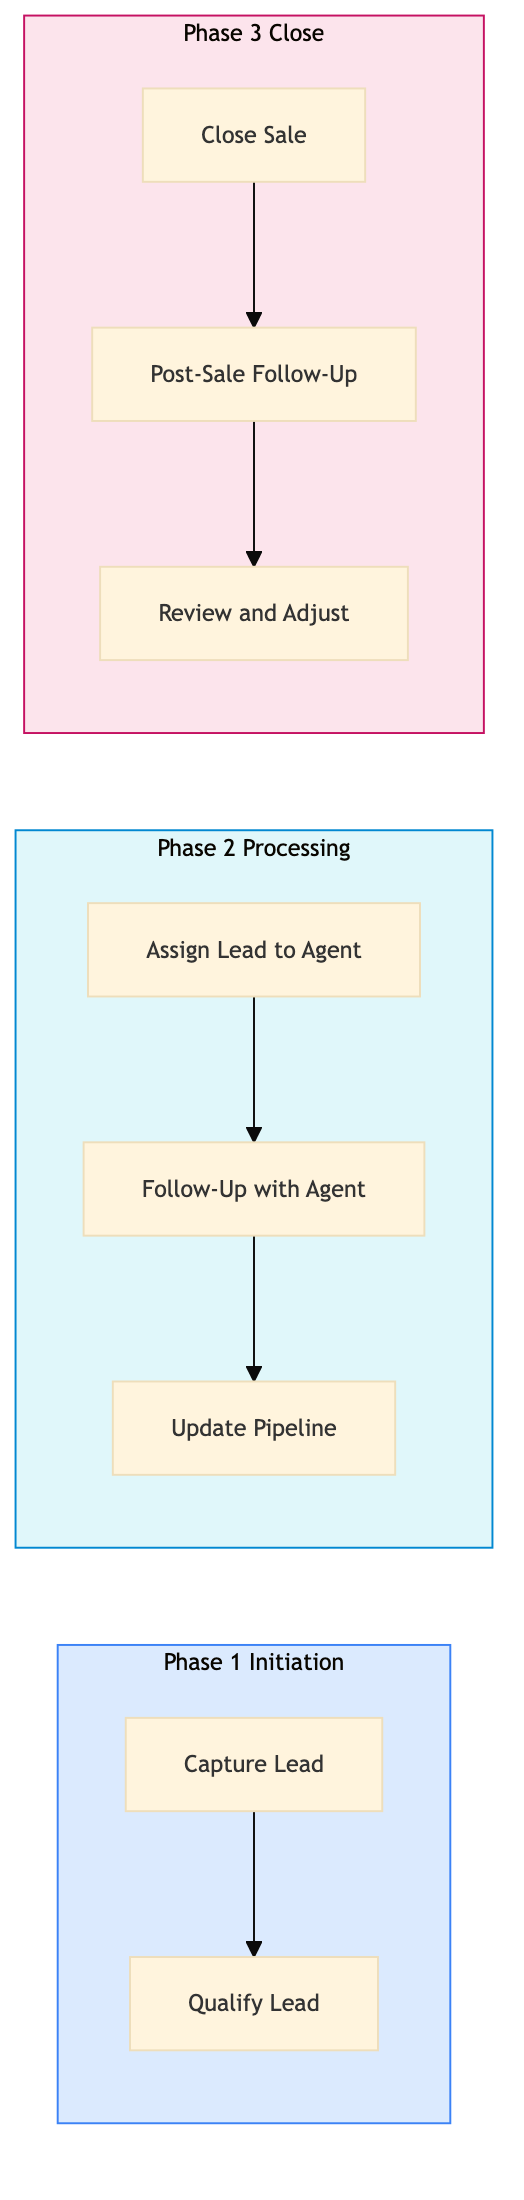
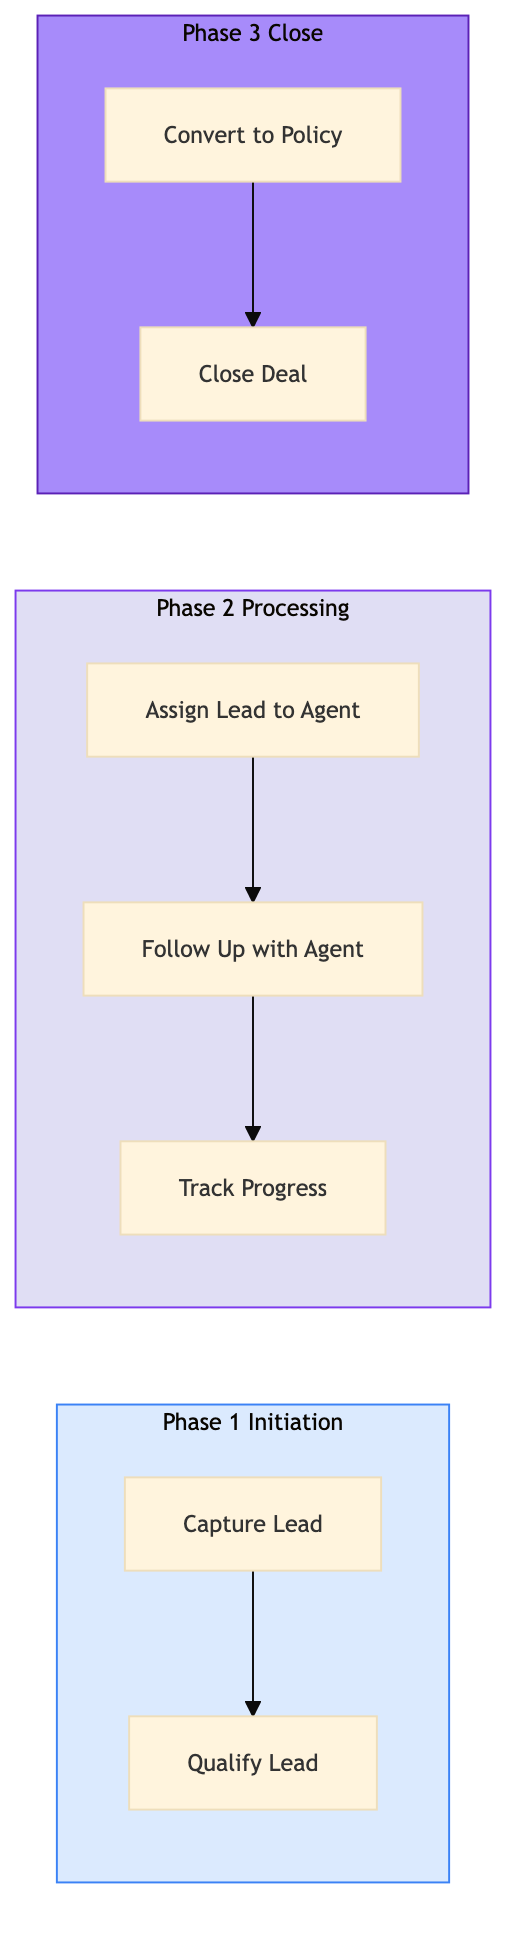
feat: add AAA-IN-AG-06 — Insurance Lead Management and Pipeline (Salesforce)

diff --git a/aaa-insurance/agency-operations/aaa-in-ag-06.html b/aaa-insurance/agency-operations/aaa-in-ag-06.html
@@ -23,40 +23,16 @@
     <div class="nav-l2-group">
       <a class="nav-l2-title" href="../../shared-membership/membership-enrolment/index.html">Membership Enrolment & Sales</a>
       <div class="nav-l3-list">
-        <a class="nav-l3" href="../../shared-membership/membership-enrolment/shared-mb-en-01.html">SHARED-MB-EN-01 &mdash; New Member Walk-In Enrolment (Branch)</a>
-        <a class="nav-l3" href="../../shared-membership/membership-enrolment/shared-mb-en-02.html">SHARED-MB-EN-02 &mdash; Online Membership Self-Enrolment (Web/Ap</a>
-        <a class="nav-l3" href="../../shared-membership/membership-enrolment/shared-mb-en-03.html">SHARED-MB-EN-03 &mdash; Phone Enrolment via Contact Centre</a>
-        <a class="nav-l3" href="../../shared-membership/membership-enrolment/shared-mb-en-04.html">SHARED-MB-EN-04 &mdash; Affiliate and Employer Group Enrolment</a>
-        <a class="nav-l3" href="../../shared-membership/membership-enrolment/shared-mb-en-05.html">SHARED-MB-EN-05 &mdash; Membership Tier Selection and Upsell</a>
-        <a class="nav-l3" href="../../shared-membership/membership-enrolment/shared-mb-en-06.html">SHARED-MB-EN-06 &mdash; Payment Processing and First-Year Billin</a>
-        <a class="nav-l3" href="../../shared-membership/membership-enrolment/shared-mb-en-07.html">SHARED-MB-EN-07 &mdash; Welcome Kit and Digital Card Issuance</a>
-        <a class="nav-l3" href="../../shared-membership/membership-enrolment/shared-mb-en-08.html">SHARED-MB-EN-08 &mdash; Duplicate Member Detection and Merge</a>
       </div>
     </div>
     <div class="nav-l2-group">
       <a class="nav-l2-title" href="../../shared-membership/membership-renewal/index.html">Membership Renewal & Retention</a>
       <div class="nav-l3-list">
-        <a class="nav-l3" href="../../shared-membership/membership-renewal/shared-mb-rn-01.html">SHARED-MB-RN-01 &mdash; Annual Renewal Notice Generation and Dis</a>
-        <a class="nav-l3" href="../../shared-membership/membership-renewal/shared-mb-rn-02.html">SHARED-MB-RN-02 &mdash; Auto-Renewal Processing (Credit Card on </a>
-        <a class="nav-l3" href="../../shared-membership/membership-renewal/shared-mb-rn-03.html">SHARED-MB-RN-03 &mdash; Lapsed Member Reinstatement Campaign</a>
-        <a class="nav-l3" href="../../shared-membership/membership-renewal/shared-mb-rn-04.html">SHARED-MB-RN-04 &mdash; Membership Upgrade and Tier Change Proce</a>
-        <a class="nav-l3" href="../../shared-membership/membership-renewal/shared-mb-rn-05.html">SHARED-MB-RN-05 &mdash; Associate and Household Member Add-On Pr</a>
-        <a class="nav-l3" href="../../shared-membership/membership-renewal/shared-mb-rn-06.html">SHARED-MB-RN-06 &mdash; Cancellation Request Handling and Save O</a>
-        <a class="nav-l3" href="../../shared-membership/membership-renewal/shared-mb-rn-07.html">SHARED-MB-RN-07 &mdash; Renewal Rate Review and Pricing Update</a>
-        <a class="nav-l3" href="../../shared-membership/membership-renewal/shared-mb-rn-08.html">SHARED-MB-RN-08 &mdash; Membership Winback Campaign (12-36 Month</a>
       </div>
     </div>
     <div class="nav-l2-group">
       <a class="nav-l2-title" href="../../shared-membership/member-services/index.html">Member Services & Benefits</a>
       <div class="nav-l3-list">
-        <a class="nav-l3" href="../../shared-membership/member-services/shared-mb-sv-01.html">SHARED-MB-SV-01 &mdash; Member Discount Partner Redemption</a>
-        <a class="nav-l3" href="../../shared-membership/member-services/shared-mb-sv-02.html">SHARED-MB-SV-02 &mdash; Passport Photo Service Delivery (Branch)</a>
-        <a class="nav-l3" href="../../shared-membership/member-services/shared-mb-sv-03.html">SHARED-MB-SV-03 &mdash; International Driving Permit (IDP) Proce</a>
-        <a class="nav-l3" href="../../shared-membership/member-services/shared-mb-sv-04.html">SHARED-MB-SV-04 &mdash; Notary and Document Authentication Servi</a>
-        <a class="nav-l3" href="../../shared-membership/member-services/shared-mb-sv-05.html">SHARED-MB-SV-05 &mdash; Member Portal Profile and Preferences Ma</a>
-        <a class="nav-l3" href="../../shared-membership/member-services/shared-mb-sv-06.html">SHARED-MB-SV-06 &mdash; Lost and Stolen Membership Card Replacem</a>
-        <a class="nav-l3" href="../../shared-membership/member-services/shared-mb-sv-07.html">SHARED-MB-SV-07 &mdash; Member Data Privacy Request (CCPA and PI</a>
-        <a class="nav-l3" href="../../shared-membership/member-services/shared-mb-sv-08.html">SHARED-MB-SV-08 &mdash; Member Satisfaction Survey and NPS Track</a>
       </div>
     </div>
   </div>
@@ -309,7 +285,7 @@
           <span class="pid-badge org-badge-aaa">AAA</span>
           AAA-IN-AG-06 &mdash; Insurance Lead Management and Pipeline (Salesforce)
         </h1>
-        <p>This process manages the lead generation and pipeline for insurance agencies within AAA Northeast. It involves capturing leads through various channels, qualifying them, assigning them to agents, and tracking their progress through the sales cycle.</p>
+        <p>This process manages the lead generation and pipeline for insurance agencies within AAA Northeast. It involves capturing leads, qualifying them, assigning to agents, tracking progress, and converting to sales.</p>
       </div>
 
       <!-- BPMN Diagram -->
@@ -335,10 +311,10 @@
             <tr><th>L1 Domain</th><td>AAA Insurance</td></tr>
             <tr><th>L2 Process</th><td>Insurance Agency Operations</td></tr>
             <tr><th>L3 Name</th><td>Insurance Lead Management and Pipeline (Salesforce)</td></tr>
-            <tr><th>Trigger</th><td>Lead capture from digital marketing campaigns, website forms, or direct contact</td></tr>
-            <tr><th>Outcome</th><td>Qualified leads are assigned to licensed insurance agents, and the pipeline is maintained with regular updates on lead status and conversion rates.</td></tr>
-            <tr><th>Org Notes</th><td>AAA Northeast focuses heavily on digital lead generation and Salesforce integration for streamlined operations compared to CAA's more manual processes.</td></tr>
-            <tr><th>Systems</th><td><span class="sys-tag salesforce">Salesforce (Einstein AI, Agentforce)</span> <span class="sys-tag guidewire">Guidewire PolicyCenter</span> <span class="sys-tag sabre">Sabre GDS</span> <span class="sys-tag verisk">Verisk ISO rating</span> <span class="sys-tag snowflake">Snowflake</span></td></tr>
+            <tr><th>Trigger</th><td>New lead generated through various channels (website, phone calls, referrals)</td></tr>
+            <tr><th>Outcome</th><td>Qualified leads are assigned to licensed insurance agents, tracked through the sales pipeline, and ultimately converted into new policies.</td></tr>
+            <tr><th>Org Notes</th><td>AAA Northeast focuses on direct agency management with a strong emphasis on digital tools for lead capture and tracking. The process is tightly integrated with Salesforce for CRM and Guidewire Cloud for policy management.</td></tr>
+            <tr><th>Systems</th><td><span class="sys-tag salesforce">Salesforce</span> <span class="sys-tag guidewire">Guidewire Cloud</span> <span class="sys-tag sabre">Sabre</span> <span class="sys-tag verisk">Verisk</span></td></tr>
           </table>
         </div>
       </div>
@@ -361,11 +337,11 @@
           <td class="step-num">1.1</td>
           <td>Capture Lead</td>
           <td>Digital Marketing Specialist</td>
-          <td><span class="sys-tag salesforce">Salesforce (Einstein AI, Agentforce)</span></td>
-          <td>Website form submission or digital marketing campaign data</td>
+          <td><span class="sys-tag salesforce">Salesforce</span></td>
+          <td>Website form submission, phone call notes</td>
           <td>Lead record in Salesforce</td>
-          <td>Lead capture rate: 50 leads/day</td>
-          <td>High volume of unqualified leads</td>
+          <td>Lead capture rate (50 leads/day)</td>
+          <td>High volume of spam and unqualified leads</td>
           <td>N</td>
           <td><span class="exception-y">Y</span></td>
         </tr>
@@ -373,10 +349,10 @@
           <td class="step-num">1.2</td>
           <td>Qualify Lead</td>
           <td>Sales Manager</td>
-          <td><span class="sys-tag salesforce">Salesforce (Einstein AI, Agentforce)</span></td>
+          <td><span class="sys-tag salesforce">Salesforce</span></td>
           <td>Lead record in Salesforce</td>
-          <td>Qualified lead status update</td>
-          <td>Qualification rate: 80% of leads qualify</td>
+          <td>Qualified lead status in Salesforce</td>
+          <td>Lead qualification rate (80%)</td>
           <td>Inconsistent qualification criteria</td>
           <td><span class="decision-y">Y</span></td>
           <td>N</td>
@@ -385,73 +361,61 @@
           <td class="step-num">2.1</td>
           <td>Assign Lead to Agent</td>
           <td>Sales Manager</td>
-          <td><span class="sys-tag salesforce">Salesforce (Einstein AI, Agentforce)</span></td>
-          <td>Qualified lead status update</td>
+          <td><span class="sys-tag salesforce">Salesforce</span></td>
+          <td>Qualified lead status in Salesforce</td>
           <td>Assigned lead record in Salesforce</td>
-          <td>Lead assignment rate: 90% of qualified leads assigned within 24 hours</td>
+          <td>Lead assignment rate (95%)</td>
           <td>Overloaded agents</td>
           <td>N</td>
           <td><span class="exception-y">Y</span></td>
         </tr>
         <tr>
           <td class="step-num">2.2</td>
-          <td>Follow-Up with Agent</td>
+          <td>Follow Up with Agent</td>
           <td>Licensed Insurance Agent</td>
-          <td><span class="sys-tag salesforce">Salesforce (Einstein AI, Agentforce)</span></td>
+          <td><span class="sys-tag salesforce">Salesforce</span></td>
           <td>Assigned lead record in Salesforce</td>
-          <td>Follow-up note and status update in Salesforce</td>
-          <td>Follow-up rate: 70% of leads followed up within 48 hours</td>
-          <td>Low follow-up rates</td>
+          <td>Updated lead status in Salesforce</td>
+          <td>Agent follow-up rate (70%)</td>
+          <td>Lack of communication tools</td>
           <td><span class="decision-y">Y</span></td>
           <td>N</td>
         </tr>
         <tr>
           <td class="step-num">2.3</td>
-          <td>Update Pipeline</td>
+          <td>Track Progress</td>
           <td>Sales Manager</td>
-          <td><span class="sys-tag salesforce">Salesforce (Einstein AI, Agentforce)</span></td>
-          <td>Follow-up note and status update in Salesforce</td>
-          <td>Updated pipeline report in Salesforce</td>
-          <td>Pipeline health: 75% of leads progress to next stage</td>
-          <td>Stagnant pipeline</td>
+          <td><span class="sys-tag salesforce">Salesforce</span></td>
+          <td>Updated lead status in Salesforce</td>
+          <td>Sales pipeline report in Salesforce</td>
+          <td>Pipeline conversion rate (40%)</td>
+          <td>Inaccurate data entry</td>
           <td>N</td>
           <td><span class="exception-y">Y</span></td>
         </tr>
         <tr>
           <td class="step-num">3.1</td>
-          <td>Close Sale</td>
+          <td>Convert to Policy</td>
           <td>Licensed Insurance Agent</td>
-          <td><span class="sys-tag salesforce">Salesforce (Einstein AI, Agentforce)</span></td>
-          <td>Updated pipeline report in Salesforce</td>
-          <td>Closed sale record in Salesforce</td>
-          <td>Conversion rate: 20% of leads convert to sales</td>
-          <td>Low conversion rates</td>
+          <td><span class="sys-tag guidewire">Guidewire Cloud</span></td>
+          <td>Sales pipeline report in Salesforce</td>
+          <td>New policy record in Guidewire Cloud</td>
+          <td>Conversion rate (60%)</td>
+          <td>Complex policy creation process</td>
           <td><span class="decision-y">Y</span></td>
           <td>N</td>
         </tr>
         <tr>
           <td class="step-num">3.2</td>
-          <td>Post-Sale Follow-Up</td>
-          <td>Customer Service Representative</td>
-          <td><span class="sys-tag salesforce">Salesforce (Einstein AI, Agentforce)</span></td>
-          <td>Closed sale record in Salesforce</td>
-          <td>Post-sale follow-up note and customer satisfaction survey</td>
-          <td>Customer satisfaction: 90% of customers rate service as excellent</td>
-          <td>Low customer satisfaction</td>
+          <td>Close Deal</td>
+          <td>Sales Manager</td>
+          <td><span class="sys-tag guidewire">Guidewire Cloud</span></td>
+          <td>New policy record in Guidewire Cloud</td>
+          <td>Closed deal notification in Salesforce</td>
+          <td>Deal closure rate (90%)</td>
+          <td>Delayed payments</td>
           <td>N</td>
           <td><span class="exception-y">Y</span></td>
-        </tr>
-        <tr>
-          <td class="step-num">3.3</td>
-          <td>Review and Adjust</td>
-          <td>Sales Manager</td>
-          <td><span class="sys-tag salesforce">Salesforce (Einstein AI, Agentforce)</span></td>
-          <td>Post-sale follow-up note and customer satisfaction survey</td>
-          <td>Updated sales strategy document</td>
-          <td>Strategy review frequency: 1 review/month</td>
-          <td>Inconsistent strategy adjustments</td>
-          <td><span class="decision-y">Y</span></td>
-          <td>N</td>
         </tr>
               </tbody>
             </table>
@@ -464,9 +428,9 @@
         <div class="card-header">&#x1F4CA; KPIs &amp; Risk Register</div>
         <div class="card-body">
           <p class="mb-8"><strong>KPIs</strong></p>
-          <div class="kpi-list mb-8"><span class="kpi-pill">Lead capture rate: 50 leads/day</span> <span class="kpi-pill">Qualification rate: 80% of leads qualify</span> <span class="kpi-pill">Lead assignment rate: 90% of qualified leads assigned within 24 hours</span> <span class="kpi-pill">Follow-up rate: 70% of leads followed up within 48 hours</span> <span class="kpi-pill">Pipeline health: 75% of leads progress to next stage</span> <span class="kpi-pill">Conversion rate: 20% of leads convert to sales</span> <span class="kpi-pill">Customer satisfaction: 90% of customers rate service as excellent</span> <span class="kpi-pill">Strategy review frequency: 1 review/month</span></div>
+          <div class="kpi-list mb-8"><span class="kpi-pill">Lead capture rate (50 leads/day)</span> <span class="kpi-pill">Lead qualification rate (80%)</span> <span class="kpi-pill">Lead assignment rate (95%)</span> <span class="kpi-pill">Agent follow-up rate (70%)</span> <span class="kpi-pill">Pipeline conversion rate (40%)</span> <span class="kpi-pill">Conversion rate (60%)</span> <span class="kpi-pill">Deal closure rate (90%)</span></div>
           <p class="mb-8" style="margin-top:16px"><strong>Key Risks</strong></p>
-          <div class="kpi-list"><span class="risk-pill">High volume of unqualified leads</span> <span class="risk-pill">Inconsistent qualification criteria</span> <span class="risk-pill">Overloaded agents</span> <span class="risk-pill">Low follow-up rates</span> <span class="risk-pill">Stagnant pipeline</span> <span class="risk-pill">Low conversion rates</span> <span class="risk-pill">Low customer satisfaction</span> <span class="risk-pill">Inconsistent strategy adjustments</span></div>
+          <div class="kpi-list"><span class="risk-pill">High volume of spam and unqualified leads</span> <span class="risk-pill">Inconsistent qualification criteria</span> <span class="risk-pill">Overloaded agents</span> <span class="risk-pill">Lack of communication tools</span> <span class="risk-pill">Inaccurate data entry</span> <span class="risk-pill">Complex policy creation process</span> <span class="risk-pill">Delayed payments</span></div>
         </div>
       </div>
 

diff --git a/aaa-insurance/agency-operations/index.html b/aaa-insurance/agency-operations/index.html
@@ -86,6 +86,7 @@
         <a class="nav-l3" href="../../aaa-insurance/agency-operations/aaa-in-ag-02.html">AAA-IN-AG-02 &mdash; Agent Continuing Education and License R</a>
         <a class="nav-l3" href="../../aaa-insurance/agency-operations/aaa-in-ag-03.html">AAA-IN-AG-03 &mdash; Agency Performance Reporting and Scoreca</a>
         <a class="nav-l3" href="../../aaa-insurance/agency-operations/aaa-in-ag-04.html">AAA-IN-AG-04 &mdash; E and O Compliance Review</a>
+        <a class="nav-l3" href="../../aaa-insurance/agency-operations/aaa-in-ag-05.html">AAA-IN-AG-05 &mdash; Cross-Sell Insurance to Existing AAA Mem</a>
       </div>
     </div>
   </div>
@@ -277,7 +278,7 @@
           <a href="../index.html">AAA Insurance</a>
         </div>
         <h1>🛡 Insurance Agency Operations</h1>
-        <p>4 of 8 processes complete</p>
+        <p>5 of 8 processes complete</p>
       </div>
       <div class="card">
         <div class="card-header">Process List</div>
@@ -288,7 +289,7 @@
 <tr><td><a href="aaa-in-ag-02.html">AAA-IN-AG-02</a></td><td>Agent Continuing Education and License Renewal Tracking</td><td><span style="color:#16a34a;font-weight:700">&#x2705; Complete</span></td></tr>
 <tr><td><a href="aaa-in-ag-03.html">AAA-IN-AG-03</a></td><td>Agency Performance Reporting and Scorecard</td><td><span style="color:#16a34a;font-weight:700">&#x2705; Complete</span></td></tr>
 <tr><td><a href="aaa-in-ag-04.html">AAA-IN-AG-04</a></td><td>E and O Compliance Review</td><td><span style="color:#16a34a;font-weight:700">&#x2705; Complete</span></td></tr>
-<tr><td>AAA-IN-AG-05</td><td>Cross-Sell Insurance to Existing AAA Members</td><td><span style="color:#94a3b8">&#x23F3; Queued</span></td></tr>
+<tr><td><a href="aaa-in-ag-05.html">AAA-IN-AG-05</a></td><td>Cross-Sell Insurance to Existing AAA Members</td><td><span style="color:#16a34a;font-weight:700">&#x2705; Complete</span></td></tr>
 <tr><td>AAA-IN-AG-06</td><td>Insurance Lead Management and Pipeline (Salesforce)</td><td><span style="color:#94a3b8">&#x23F3; Queued</span></td></tr>
 <tr><td>AAA-IN-AG-07</td><td>Agent Commission Dispute Resolution</td><td><span style="color:#94a3b8">&#x23F3; Queued</span></td></tr>
 <tr><td>AAA-IN-AG-08</td><td>AAA Approved Auto Repair Insurance Referral Process</td><td><span style="color:#94a3b8">&#x23F3; Queued</span></td></tr>

diff --git a/index.html b/index.html
@@ -86,6 +86,7 @@
         <a class="nav-l3" href="aaa-insurance/agency-operations/aaa-in-ag-02.html">AAA-IN-AG-02 &mdash; Agent Continuing Education and License R</a>
         <a class="nav-l3" href="aaa-insurance/agency-operations/aaa-in-ag-03.html">AAA-IN-AG-03 &mdash; Agency Performance Reporting and Scoreca</a>
         <a class="nav-l3" href="aaa-insurance/agency-operations/aaa-in-ag-04.html">AAA-IN-AG-04 &mdash; E and O Compliance Review</a>
+        <a class="nav-l3" href="aaa-insurance/agency-operations/aaa-in-ag-05.html">AAA-IN-AG-05 &mdash; Cross-Sell Insurance to Existing AAA Mem</a>
       </div>
     </div>
   </div>
@@ -277,9 +278,9 @@
       </div>
 
       <div class="stats-bar">
-        <div class="stat-card"><div class="stat-num">30</div><div class="stat-label">Processes Complete</div></div>
+        <div class="stat-card"><div class="stat-num">31</div><div class="stat-label">Processes Complete</div></div>
         <div class="stat-card"><div class="stat-num">268</div><div class="stat-label">Total Processes</div></div>
-        <div class="stat-card"><div class="stat-num">30</div><div class="stat-label">AAA Complete</div></div>
+        <div class="stat-card"><div class="stat-num">31</div><div class="stat-label">AAA Complete</div></div>
         <div class="stat-card"><div class="stat-num caa-red">0</div><div class="stat-label">CAA Complete</div></div>
         <div class="stat-card"><div class="stat-num">0</div><div class="stat-label">Shared Complete</div></div>
       </div>
@@ -299,7 +300,7 @@
         <span class="nav-org-dot aaa" style="display:inline-block;margin-right:4px"></span>
         AAA
       </p>
-      <p class="card-count">30 / 34 processes complete</p>
+      <p class="card-count">31 / 34 processes complete</p>
     </div>
     <div class="domain-card org-caa">
       <h3><a href="caa-insurance/index.html">🍁 CAA Insurance (Ontario)</a></h3>

diff --git a/aaa-insurance/index.html b/aaa-insurance/index.html
@@ -86,6 +86,7 @@
         <a class="nav-l3" href="../aaa-insurance/agency-operations/aaa-in-ag-02.html">AAA-IN-AG-02 &mdash; Agent Continuing Education and License R</a>
         <a class="nav-l3" href="../aaa-insurance/agency-operations/aaa-in-ag-03.html">AAA-IN-AG-03 &mdash; Agency Performance Reporting and Scoreca</a>
         <a class="nav-l3" href="../aaa-insurance/agency-operations/aaa-in-ag-04.html">AAA-IN-AG-04 &mdash; E and O Compliance Review</a>
+        <a class="nav-l3" href="../aaa-insurance/agency-operations/aaa-in-ag-05.html">AAA-IN-AG-05 &mdash; Cross-Sell Insurance to Existing AAA Mem</a>
       </div>
     </div>
   </div>
@@ -274,7 +275,7 @@
       <div class="page-header">
         <div class="breadcrumb"><a href="../index.html">Home</a></div>
         <h1>🛡 AAA Insurance</h1>
-        <p>30 of 34 processes complete across 4 process groups</p>
+        <p>31 of 34 processes complete across 4 process groups</p>
       </div>
       <div class="domain-grid">    <div class="domain-card org-aaa">
       <h3><a href="insurance-quoting/index.html">Quoting & Underwriting</a></h3>
@@ -290,7 +291,7 @@
     </div>
     <div class="domain-card org-aaa">
       <h3><a href="agency-operations/index.html">Insurance Agency Operations</a></h3>
-      <p class="card-meta">4/8 processes complete</p>
+      <p class="card-meta">5/8 processes complete</p>
     </div>
 </div>
     </main>
